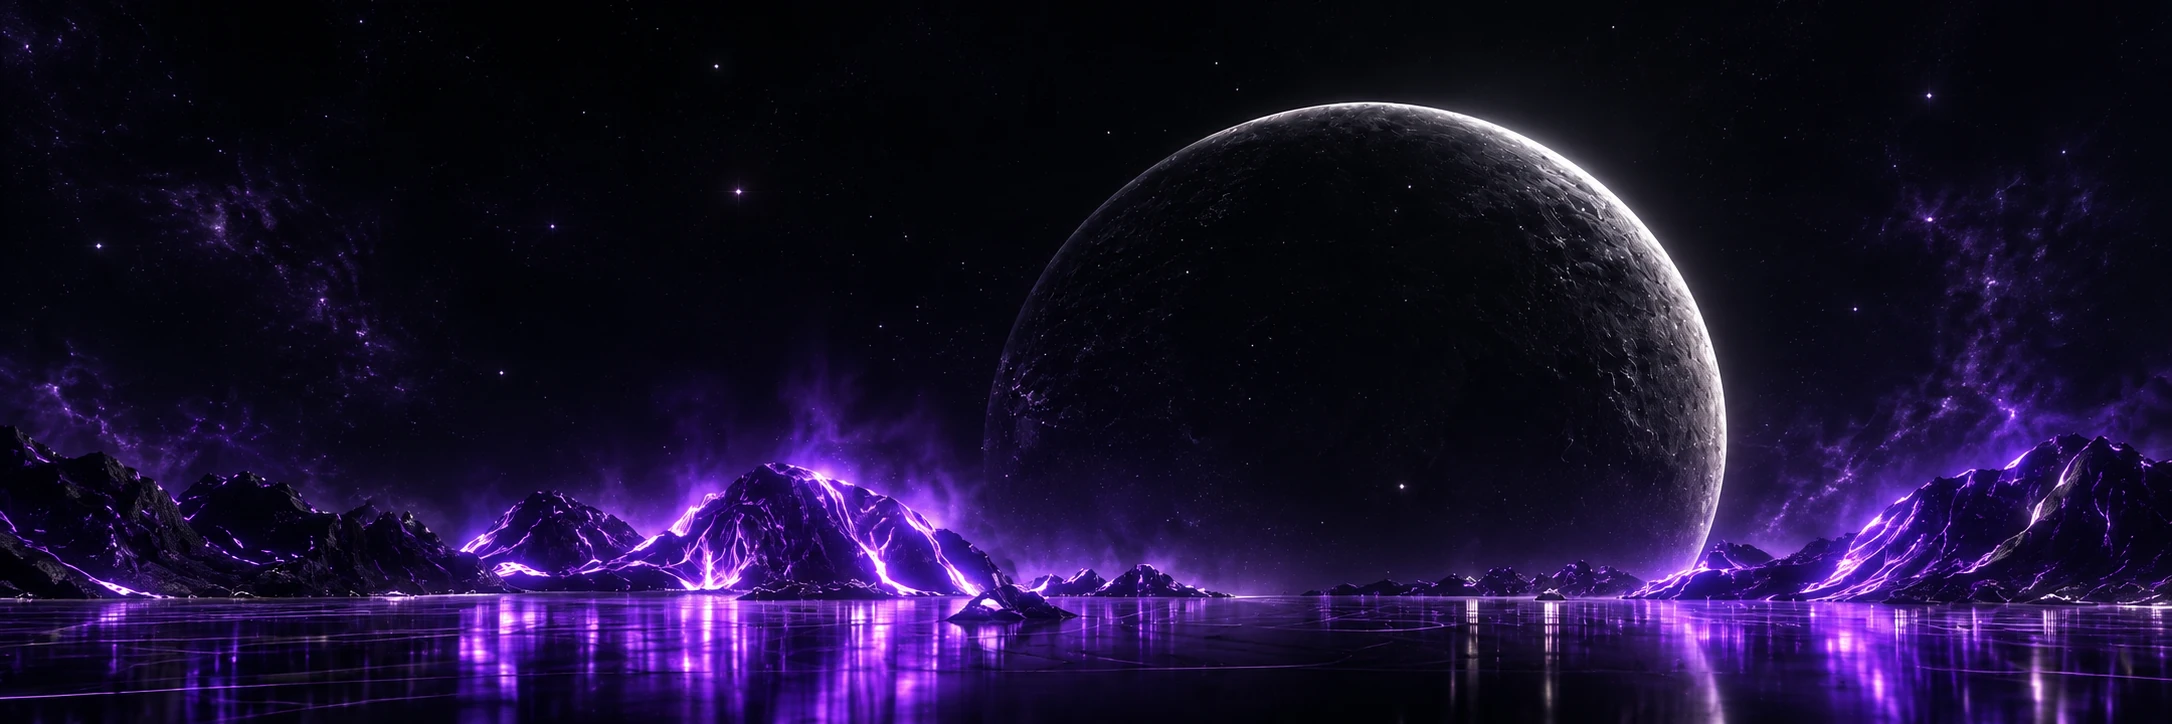
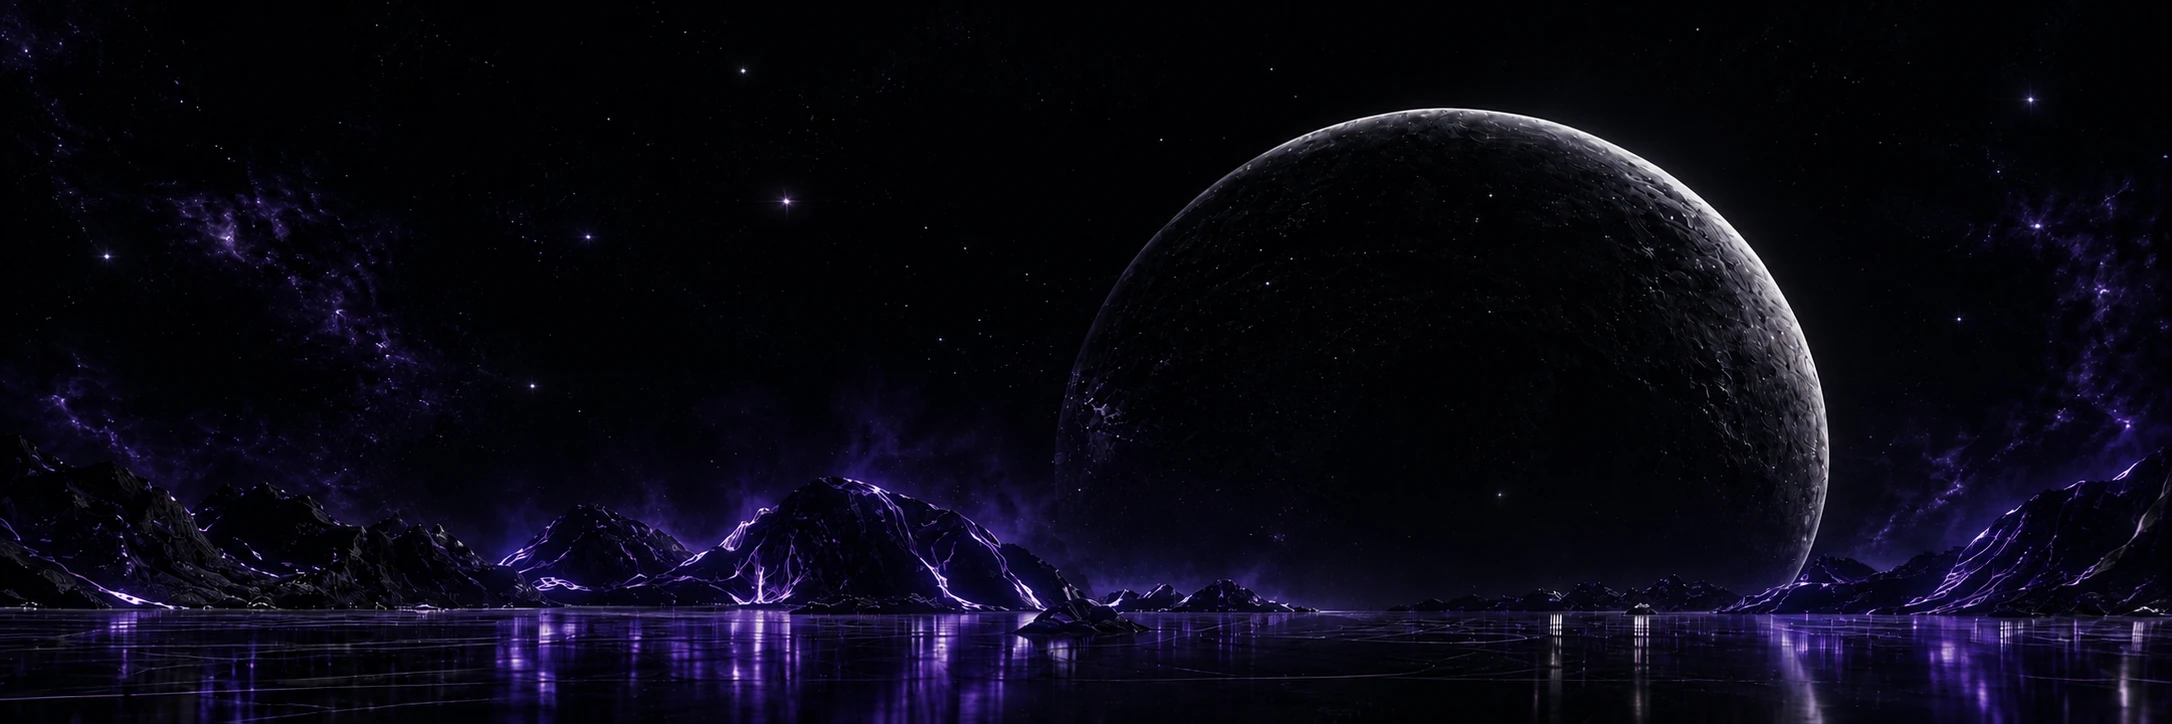
Ronie's backdrop: add the picture pair and the code for it
The rest of the previous commit, which went out with only the old glow
layer's removal (a failed `git add`):
- the aligned subdued picture and the lit one;
- the cross-fade;
- the re-measured moon, waterline and stars;
- embers from the pair;
- the removed captions.

diff --git a/js/assistant.js b/js/assistant.js
@@ -967,30 +967,31 @@ function updateSpace(now, dt) {
 }
 
 /* ======================= the picture backdrop ======================= */
-// The default: a wide picture (img/ronie-bg.webp, 3:1, the moon's centre at 62.5% across, the waterline at 82% down)
-// behind the transparent 3D canvas. It's placed for the window every time it changes: on a landscape screen it covers
+// The default: a wide picture behind the transparent 3D canvas (3:1, the moon's centre at 66.5% across, the waterline
+// at 84% down), as a pair: img/ronie-bg.webp with the mountains' neon subdued, and img/ronie-bg-lit.webp with it
+// glowing, laid over it and fading in and out (the subdued one was warped to line up with the lit one exactly). It's placed for the window every time it changes: on a landscape screen it covers
 // the frame, slid so the moon sits just right of him, with the waterline 87% down (as in the design); on a portrait
 // one the moon is centred behind his head and shoulders, the picture fading into black above and below.
 const moon = {
-  built: false, img: $('#rai-bg'), fx: $('#rai-bgfx'), ctx: null, glow: null, mist: null, tex: null, lights: [], k: -1,
+  built: false, wrap: $('#rai-bg-wrap'), img: $('#rai-bg'), lit: $('#rai-bg-lit'), fx: $('#rai-bgfx'), ctx: null, mist: null,
+  tex: null, lights: [], k: -1, litK: -1,
   box: null, at: '', par: { x: 0, y: 0 }, tick: 0, shoots: [], nextShoot: 4, embers: [], sprites: null,
 };
-const BG_ASPECT = 2172 / 724, BG_MOON_X = 0.625, BG_WATER_Y = 0.822;
-const BG_MOON = [0.6245, 0.6402, 0.4991];             // the moon's outline: centre (fractions across / down), radius / height
+const BG_ASPECT = 2172 / 724, BG_MOON_X = 0.6651, BG_WATER_Y = 0.84;
+const BG_MOON = [0.6651, 0.6781, 0.5263];             // the moon's outline: centre (fractions across / down), radius / height
 const BG_PAR = 10;                                    // px the picture drifts against the mouse (a hint of depth)
 // the picture's own brightest stars (fractions across, down; brightness), found in it; they twinkle
-const BG_STARS = [[0.3297, 0.0912, 1.00], [0.8877, 0.1312, 1.00], [0.5101, 0.1823, 1.00], [0.2541, 0.3122, 1.00], [0.0451, 0.3384, 1.00],
-  [0.3393, 0.2638, 1.00], [0.8886, 0.3025, 1.00], [0.8541, 0.4268, 0.99], [0.0124, 0.0635, 0.99], [0.4052, 0.4503, 0.96],
-  [0.1483, 0.4144, 0.94], [0.5599, 0.0870, 0.94], [0.9162, 0.3895, 0.90], [0.9498, 0.2099, 0.89], [0.1662, 0.0290, 0.88],
-  [0.1008, 0.3135, 0.84], [0.7426, 0.0373, 0.82], [0.5695, 0.1229, 0.80], [0.1644, 0.4586, 0.79], [0.4167, 0.3260, 0.78],
-  [0.0801, 0.1312, 0.75], [0.2684, 0.1547, 0.75], [0.1501, 0.1602, 0.70], [0.4222, 0.4227, 0.70], [0.1137, 0.2652, 0.69],
-  [0.9208, 0.2735, 0.68], [0.8720, 0.2293, 0.68], [0.0994, 0.2831, 0.64], [0.1013, 0.2072, 0.64], [0.9167, 0.3522, 0.62],
-  [0.0958, 0.1906, 0.61], [0.4006, 0.2983, 0.61], [0.0272, 0.0539, 0.61], [0.9448, 0.4406, 0.59], [0.0262, 0.1892, 0.57],
-  [0.1179, 0.3412, 0.56], [0.1561, 0.3522, 0.55], [0.0304, 0.2528, 0.54], [0.4434, 0.3633, 0.50], [0.3025, 0.0387, 0.47]];
+const BG_STARS = [[0.0120, 0.0704, 1.00], [0.3407, 0.0981, 1.00], [0.9351, 0.1381, 1.00], [0.2721, 0.3273, 1.00], [0.0502, 0.3536, 1.00],
+  [0.9692, 0.4006, 1.00], [0.1750, 0.4751, 1.00], [0.5341, 0.1934, 1.00], [0.1045, 0.3287, 0.99], [0.0833, 0.1395, 0.99],
+  [0.1644, 0.3660, 0.99], [0.3628, 0.2762, 0.99], [0.9378, 0.3122, 0.99], [0.9015, 0.4392, 0.99], [0.4332, 0.4682, 0.99],
+  [0.9199, 0.2362, 0.99], [0.2357, 0.3052, 0.99], [0.1188, 0.2776, 0.99], [0.1782, 0.4903, 0.98], [0.1552, 0.4309, 0.97],
+  [0.9673, 0.3633, 0.97], [0.9991, 0.2169, 0.96], [0.2463, 0.3315, 0.95], [0.8361, 0.1851, 0.94], [0.8490, 0.1064, 0.93],
+  [0.8656, 0.1961, 0.93], [0.0272, 0.2003, 0.92], [0.1054, 0.2182, 0.91], [0.5852, 0.0953, 0.90], [0.1731, 0.0345, 0.88],
+  [0.4507, 0.4406, 0.88], [0.2486, 0.3481, 0.87], [0.1077, 0.3481, 0.87], [0.2408, 0.3273, 0.86], [0.3154, 0.0442, 0.85],
+  [0.1598, 0.2417, 0.85]];
 function buildMoon() {
-  if (!moon.img || !moon.fx) return;
+  if (!moon.wrap || !moon.img || !moon.lit || !moon.fx) return;
   moon.ctx = moon.fx.getContext('2d');
-  moon.glow = new Image(); moon.glow.src = `img/ronie-bg-glow.webp${new URL(import.meta.url).search}`;
   new THREE.TextureLoader().load(moon.img.currentSrc || moon.img.src, (t) => {
     t.mapping = THREE.EquirectangularReflectionMapping; t.colorSpace = THREE.SRGBColorSpace; moon.tex = t;
   });
@@ -1035,16 +1036,26 @@ function placeBackdrop() {
   moon.box = { x, y, iw, ih, w, h, wide };
 }
 
-// sprites for the backdrop's lights, the faint star field, and where on the picture the neon glows (for the embers)
+// sprites for the backdrop's lights, the faint star field, and where on the picture the neon glows (for the embers:
+// wherever the lit picture is much brighter than the subdued one, above the water)
+const imgReady = (im) => im && im.complete && im.naturalWidth;
 function bgSprites() {
   if (moon.sprites) {
-    if (!moon.sprites.hot.length && moon.glow && moon.glow.complete && moon.glow.naturalWidth && !moon.sprites.tried) {
+    if (!moon.sprites.hot.length && imgReady(moon.img) && imgReady(moon.lit) && !moon.sprites.tried) {
       moon.sprites.tried = true;
       try {
-        const c = document.createElement('canvas'), w = 362, h = 121; c.width = w; c.height = h;
-        const x = c.getContext('2d'); x.drawImage(moon.glow, 0, 0, w, h);
-        const d = x.getImageData(0, 0, w, h).data;
-        for (let j = 0; j < h * (BG_WATER_Y - 0.01); j++) for (let i = 0; i < w; i++) if (d[(j * w + i) * 4 + 3] > 150) moon.sprites.hot.push([i / w, j / h]);
+        const w = 362, h = 121, read = (im) => {
+          const c = document.createElement('canvas'); c.width = w; c.height = h;
+          const x = c.getContext('2d'); x.drawImage(im, 0, 0, w, h);
+          return x.getImageData(0, 0, w, h).data;
+        };
+        const lo = read(moon.img), hi = read(moon.lit);
+        for (let j = 0; j < h * (BG_WATER_Y - 0.01); j++) {
+          for (let i = 0; i < w; i++) {
+            const k = (j * w + i) * 4, gain = (hi[k] + hi[k + 1] + hi[k + 2]) - (lo[k] + lo[k + 1] + lo[k + 2]);
+            if (gain > 150) moon.sprites.hot.push([i / w, j / h]);
+          }
+        }
       } catch { /* no embers */ }
     }
     return moon.sprites;
@@ -1083,7 +1094,8 @@ function bgSprites() {
   return moon.sprites;
 }
 
-// The picture comes alive: the water ripples, the neon in the mountains glows brighter and softer in a slow breath,
+// The picture comes alive: the water ripples, the neon in the mountains glows brighter and softer in a slow breath (the
+// lit picture fading in and out over the subdued one, in updateMoon),
 // mist drifts along the shore, embers float up off it, the moon's lit rim glows, its
 // stars twinkle and a shooting star crosses the sky once in a while. Drawn on a canvas over the picture, in the
 // picture's own coordinates, so it all stays put wherever the picture is placed.
@@ -1097,20 +1109,19 @@ function drawBackdropFx(t, dt) {
   const x0 = B.x + moon.par.x, y0 = B.y + moon.par.y, iw = B.iw, ih = B.ih;
   const img = moon.img, NW = img.naturalWidth, NH = img.naturalHeight;
   if (!NW || !MOTION) return;
-  // the water: each band of it redrawn a little to the side, more the nearer it is
+  // the water: each band of it redrawn a little to the side, more the nearer it is (the subdued picture, then the lit
+  // one over it as strongly as it's showing, so the reflections glow with the mountains)
   const top = Math.max(0, y0 + BG_WATER_Y * ih + 2), bot = Math.min(B.h, y0 + ih), band = 2;
   ctx.globalCompositeOperation = 'source-over';
+  const lit = imgReady(moon.lit) ? moon.lit : null, litK = Math.max(0, moon.litK);
   for (let y = top; y < bot; y += band) {
     const v = (y - y0) / ih, d = (v - BG_WATER_Y) / (1 - BG_WATER_Y), sy = v * NH;
     const dx = (Math.sin(sy * 0.23 + t * 1.6) * 0.6 + Math.sin(sy * 0.061 - t * 0.9) * 0.4) * (0.6 + 4.5 * d);
+    ctx.globalAlpha = 1;
     ctx.drawImage(img, 0, sy, NW, (band / ih) * NH, x0 + dx, y, iw, band);
+    if (lit && litK > 0.01) { ctx.globalAlpha = litK; ctx.drawImage(lit, 0, sy, lit.naturalWidth, (band / ih) * lit.naturalHeight, x0 + dx, y, iw, band); }
   }
   ctx.globalCompositeOperation = 'lighter';
-  // the neon glowing up and down in one slow, smooth breath (about 5 s)
-  if (moon.glow && moon.glow.complete && moon.glow.naturalWidth) {
-    ctx.globalAlpha = 0.12 + 0.26 * (0.5 - 0.5 * Math.cos((t * Math.PI * 2) / 5));
-    ctx.drawImage(moon.glow, x0, y0, iw, ih);
-  }
   // mist drifting along the foot of the mountains
   if (!moon.mist) {
     const m = document.createElement('canvas'); m.width = m.height = 128;
@@ -1213,7 +1224,10 @@ function updateMoon(dt) {
   power += (roomGoal - power) * Math.min(1, dt * (MOTION ? 1.6 : 60));
   // asleep the picture is barely there; it comes up with the room light
   const k = Math.round((0.22 + 0.78 * power) * 100) / 100;
-  if (k !== moon.k) { moon.k = k; moon.img.style.filter = moon.fx.style.filter = k < 1 ? `brightness(${k})` : ''; }
+  if (k !== moon.k) { moon.k = k; moon.wrap.style.filter = moon.fx.style.filter = k < 1 ? `brightness(${k})` : ''; }
+  // the neon: the lit picture fades in and out over the subdued one, in one slow, smooth breath (about 6 s)
+  const lk = MOTION ? Math.round((0.12 + 0.88 * (0.5 - 0.5 * Math.cos((performance.now() / 1000) * Math.PI * 2 / 6))) * 200) / 200 : 1;
+  if (lk !== moon.litK) { moon.litK = lk; moon.lit.style.opacity = lk; }
   // the picture drifts a touch against the mouse
   const m = !TOUCH.matches && MOTION ? BG_PAR : 0;
   moon.par.x += (-ptr.x * m - moon.par.x) * Math.min(1, dt * 2.5);
@@ -1223,8 +1237,8 @@ function updateMoon(dt) {
     const at = `${Math.round(B.iw)},${(B.x + moon.par.x).toFixed(1)},${(B.y + moon.par.y).toFixed(1)},${B.wide}`;
     if (at !== moon.at) {
       moon.at = at;
-      Object.assign(moon.img.style, { width: `${B.iw}px`, height: `${B.ih}px`, transform: `translate(${B.x + moon.par.x}px, ${B.y + moon.par.y}px)` });
-      moon.img.classList.toggle('tall', !B.wide);
+      Object.assign(moon.wrap.style, { width: `${B.iw}px`, height: `${B.ih}px`, transform: `translate(${B.x + moon.par.x}px, ${B.y + moon.par.y}px)` });
+      moon.wrap.classList.toggle('tall', !B.wide);
     }
     // ~30 fps is plenty for this
     moon.tick += dt;

diff --git a/css/style.css b/css/style.css
@@ -478,9 +478,11 @@ main { padding: 0 var(--gap) var(--gap); }
 .rai.ready .rai-canvas { opacity: 1; }
 /* his backdrop picture, behind the see-through canvas; js places and sizes it for the window (only the default room) */
 .rai-bg {
-  position: absolute; left: 0; top: 0; max-width: none; width: 100%; pointer-events: none; user-select: none;
+  position: absolute; left: 0; top: 0; width: 100%; pointer-events: none; user-select: none;
   opacity: 0; transition: opacity 1.4s ease;
 }
+.rai-bg img { position: absolute; inset: 0; width: 100%; height: 100%; max-width: none; display: block; }
+#rai-bg-lit { opacity: 0; }   /* (js fades it in and out) */
 .rai-bgfx { position: absolute; inset: 0; width: 100%; height: 100%; pointer-events: none; opacity: 0; transition: opacity 1.4s ease; }
 .rai[data-room="moon"].ready .rai-bg, .rai[data-room="moon"].ready .rai-bgfx { opacity: 1; }
 .rai-bg.tall { -webkit-mask-image: linear-gradient(transparent, #000 10%, #000 86%, transparent); mask-image: linear-gradient(transparent, #000 10%, #000 86%, transparent); }
@@ -893,15 +895,11 @@ main { padding: 0 var(--gap) var(--gap); }
 }
 .rai-panel:not([hidden]) ~ .rai-hud { opacity: 1; }
 .rai-hud p { position: absolute; margin: 0; line-height: 1.7; transition: opacity .4s; }
-.rai-hud-stack { left: 23.7%; top: 8.6%; font-size: 8.5px; letter-spacing: .26em; color: rgba(255, 255, 255, .3); }
 .rai-hud-id { right: 76px; top: 27px; }
 .rai-hud-id span { margin: 0 1.1em; opacity: .55; }
 .rai-hud-id b { font-weight: 500; color: #fff; }
-.rai-hud-loop { right: 56px; top: 21.5%; color: rgba(255, 255, 255, .78); }
-.rai-hud-loop i { display: block; width: 40px; height: 1px; margin-top: 9px; background: linear-gradient(90deg, #fff 70%, rgba(255, 255, 255, .25) 70%); }
 .rai-hud-tag { left: clamp(20px, 5vw, 72px); bottom: 64px; padding-left: 14px; border-left: 1px solid #8a4dff; color: rgba(255, 255, 255, .5); }
-.rai:has(.rai-panel.chatting) .rai-hud-stack, .rai:has(.rai-panel.chatting) .rai-hud-tag { opacity: 0; }
-@media (max-width: 1400px) { .rai-hud-loop { display: none; } }   /* (his shoulder reaches it) */
+.rai:has(.rai-panel.chatting) .rai-hud-tag { opacity: 0; }
 @media (max-width: 820px) {
   .rai:not([data-room="tubes"]) .rai-hud { display: none; }   /* (no room for captions beside the buttons) */
 }

diff --git a/index.html b/index.html
@@ -17,7 +17,7 @@
   <link rel="icon" href="favicon.ico?v=2" sizes="32x32">
   <link rel="apple-touch-icon" href="apple-touch-icon.png?v=2">
   <link rel="preload" href="fonts/gobitta.woff2" as="font" type="font/woff2" crossorigin>
-  <link rel="stylesheet" href="css/style.css?v=20261013233000">
+  <link rel="stylesheet" href="css/style.css?v=20261014100000">
   <script type="importmap">
     { "imports": {
       "three": "https://cdn.jsdelivr.net/npm/three@0.160.0/build/three.module.js",
@@ -209,7 +209,10 @@
     <!-- ============ R.O.N.I.E. ("Ronie") — ASSISTANT ============ -->
     <section class="view" data-view="assistant" hidden>
       <div class="rai" id="rai">
-        <img class="rai-bg" id="rai-bg" src="img/ronie-bg.webp" alt="" aria-hidden="true" decoding="async">
+        <div class="rai-bg" id="rai-bg-wrap" aria-hidden="true">
+          <img id="rai-bg" src="img/ronie-bg.webp?v=2" alt="" decoding="async">
+          <img id="rai-bg-lit" src="img/ronie-bg-lit.webp?v=1" alt="" decoding="async">
+        </div>
         <canvas class="rai-bgfx" id="rai-bgfx" aria-hidden="true"></canvas>
         <canvas class="rai-canvas" id="rai-canvas" aria-hidden="true"></canvas>
         <div class="rai-loading" id="rai-loading" aria-live="polite">
@@ -293,9 +296,7 @@
         </div>
         <!-- the space room's captions (decoration; css shows them once he's awake) -->
         <div class="rai-hud" aria-hidden="true">
-          <p class="rai-hud-stack">Large language models<br>Multi-agent systems<br>Real world actions</p>
           <p class="rai-hud-id">AI agents<span>//</span><b>Ronie</b></p>
-          <p class="rai-hud-loop">Think<br>Plan<br>Execute<br>Repeat<i></i></p>
           <p class="rai-hud-tag">Not just a chatbot.<br>An agent.</p>
         </div>
         <div class="rai-progress" aria-hidden="true"><i id="rai-progress"></i></div>
@@ -321,8 +322,8 @@
     </div>
   </dialog>
 
-  <script src="js/data.js?v=20261013233000"></script>
+  <script src="js/data.js?v=20261014100000"></script>
   <script src="https://cdn.jsdelivr.net/npm/topojson-client@3.1.0/dist/topojson-client.min.js" defer></script>
-  <script src="js/main.js?v=20261013233000" defer></script>
+  <script src="js/main.js?v=20261014100000" defer></script>
 </body>
 </html>

diff --git a/README.md b/README.md
@@ -41,14 +41,16 @@ and NIELIT's emblems, used to identify who issued a certificate). Opening a book
 credential `id` and a link to `url`.
 
 ## Ronie's surroundings
-By default Ronie stands in front of a picture, `img/ronie-bg.webp` (neon mountains under a colossal moon, 3:1),
-behind his transparent 3D canvas. `placeBackdrop` in `js/assistant.js` fits it to the window: on landscape
+By default Ronie stands in front of a picture (neon mountains under a colossal moon, 3:1) behind his transparent
+3D canvas. It's a pair: `img/ronie-bg.webp` has the mountains' neon subdued, and `img/ronie-bg-lit.webp` has it
+glowing. The lit one lies over the other and fades in and out. The subdued one was warped (optical flow) to line up
+with the lit one exactly, so swapping in new versions means re-aligning them. `placeBackdrop` in `js/assistant.js` fits it to the window: on landscape
 screens it fills the frame with the moon just right of him and the waterline 87% down; on portrait screens the
 moon sits behind his head like a halo. A canvas over it brings it to life (`drawBackdropFx`):
 - the water ripples;
-- the neon glows up and down in a slow, smooth breath, using `img/ronie-bg-glow.webp`, the picture's purple parts;
+- the neon glows up and down in a slow, smooth breath, as the lit picture fades in and out, its reflections included;
 - mist drifts along the mountains;
-- embers float up off the glowing veins;
+- embers float up off the glowing veins (wherever the lit picture is brighter than the subdued one);
 - the moon's rim glows;
 - the stars (soft glowing points, the brightest with diffraction spikes, plus a faint field between them) twinkle
   unevenly;
